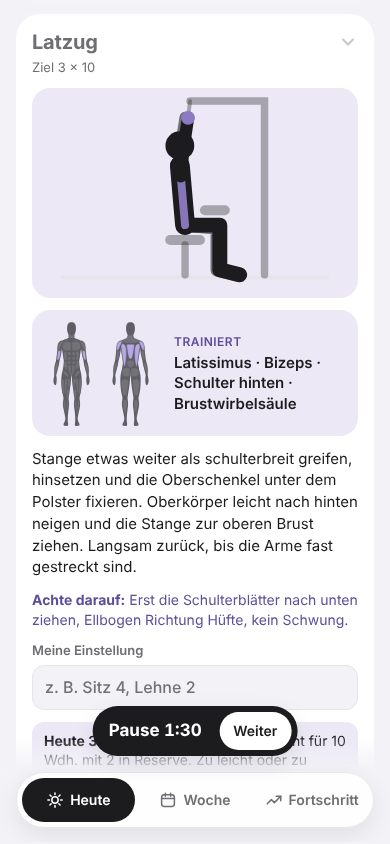
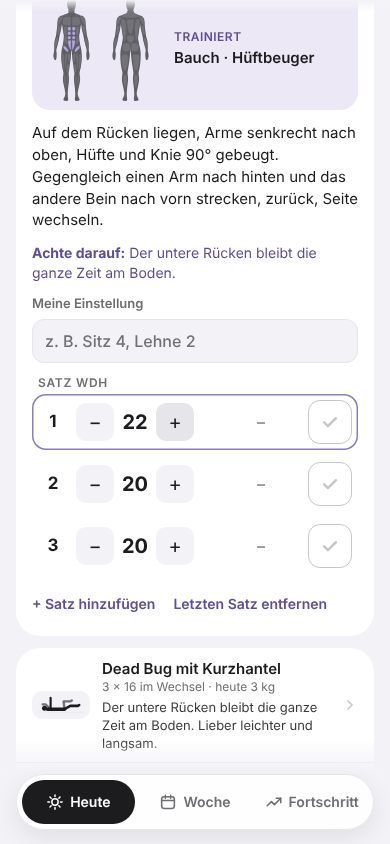
Dead Bug: Gesamtzahl pro Satz statt links/rechts abhaken
Übungen, bei denen die Seiten im Wechsel kommen (Bibliothek: alt),
werden aus „3×10 je Seite“ als 3×20 geführt: ein Haken pro Satz,
Stepper in Zweierschritten, Steigerung um eine Wdh. je Seite.
Gewichtsschätzung rechnet weiter mit Wiederholungen je Seite.

Claude-Session: https://claude.ai/code/session_0189vNV4WxQq4MYos3gjU1Qb

diff --git a/app.js b/app.js
@@ -517,7 +517,7 @@
         const okS = s2.filter(x => x.ok), allOk = s2.length && s2.every(x => x.ok);
         if (allOk) doneN++;
         setsOk += okS.length; setsAll += s2.length;
-        let sub = `${t2.sets} × ${t2.reps}${k2 === 'time' ? ' s' : ''}${twoSided(e, lb, t2, k2) || t2.side ? ' je Seite' : ''}`;
+        let sub = `${t2.sets} × ${t2.reps}${k2 === 'time' ? ' s' : ''}${twoSided(e, lb, t2, k2) || t2.side ? ' je Seite' : t2.alt ? ' im Wechsel' : ''}`;
         if (p.done && okS.length) { const kgs = okS.map(x => x.kg).filter(x => x != null); sub = `${okS.length} Sätze${k2 === 'w' && kgs.length ? ' · ' + fmtKg(Math.max(...kgs)) : ''}`; }
         else if (!p.done) { const sg = suggest(lb, e, t2, lastFor(M, e.name, p.id)); if (k2 === 'w' && sg.kg != null) sub += ' · ' + fmtKg(sg.kg); }
         return { name: e.name, sub, on: !!allOk || !!p.done, part: !allOk && okS.length > 0, lib: lb };
@@ -574,6 +574,8 @@
   }
   function target(p, ex, lib) {
     const t = { sets: ex.sets || 1, reps: ex.reps || 10, secs: ex.secs, side: ex.side };
+    /* Seiten im Wechsel (z. B. Dead Bug): „3×10 je Seite“ wird als 3×20 gezählt, ein Haken pro Satz */
+    if (t.side && lib && lib.alt && !t.secs) { t.reps *= 2; t.side = false; t.alt = true; }
     const h = (p.note || '').match(/Schwerer:\s*(\d+)×(\d+)/);
     if (h && lib && lib.t === 'w' && !lib.noHeavy) { t.sets = +h[1]; t.reps = +h[2]; t.heavy = true; }
     return t;
@@ -622,30 +624,31 @@
     }
     if (k === 'bw') {
       if (!hist) return { r: tg.reps, why: '' };
-      const cap = Math.max((lib && lib.cap) || 15, tg.reps);
+      const st = tg.alt ? 2 : 1, cap = Math.max(((lib && lib.cap) || 15) * st, tg.reps); /* im Wechsel: Gesamtzahl, eine Wdh. mehr je Seite = 2 */
       const best = Math.max(...hist.sets.map(s => s.reps || 0));
       const rr = hist.sets.map(s => s.rir).filter(x => x != null), ar = rr.length ? mean(rr) : null;
       if (!hist.sets.every(s => (s.reps || 0) >= tg.reps)) return { r: tg.reps, why: '' };
       if (best >= cap) return { r: cap, why: capMsg(cap, ' Wdh.'), cap: true };
-      if (ar != null && ar >= 4) { const r = Math.min(cap, Math.max(tg.reps, best + 2)); return { r, why: `Letztes Mal noch ${fmtR(ar)} in Reserve: ${r - best > 1 ? 'zwei Wiederholungen' : 'eine Wiederholung'} mehr pro Satz.` }; }
+      if (ar != null && ar >= 4) { const r = Math.min(cap, Math.max(tg.reps, best + 2 * st)); return { r, why: `Letztes Mal noch ${fmtR(ar)} in Reserve: ${(r - best) / st > 1 ? 'zwei Wiederholungen' : 'eine Wiederholung'} mehr ${tg.alt ? 'je Seite' : 'pro Satz'}.` }; }
       if (ar != null && ar < 1.5) return { r: Math.max(tg.reps, best), why: 'Letztes Mal fast am Limit: Wiederholungen halten.' };
-      return { r: Math.min(cap, Math.max(tg.reps, best + 1)), why: 'Letztes Mal alles geschafft: eine Wiederholung mehr pro Satz.' };
+      return { r: Math.min(cap, Math.max(tg.reps, best + st)), why: `Letztes Mal alles geschafft: eine Wiederholung mehr ${tg.alt ? 'je Seite' : 'pro Satz'}.` };
     }
-    if (!hist) { const kg = startKg(lib, tg.reps); return { r: tg.reps, kg, first: true, why: kg != null ? `Geschätztes Startgewicht für ${tg.reps} Wdh. mit ${rir()} in Reserve. Zu leicht oder zu schwer? Einfach anpassen, ab dann rechnet die App mit deinem Wert.` : `Gewicht wählen, bei dem noch ${rir()} Wiederholungen gehen würden.` }; }
+    const ps = r => tg.alt ? r / 2 : r; /* Gewicht schätzen nach Wiederholungen je Seite */
+    if (!hist) { const kg = startKg(lib, ps(tg.reps)); return { r: tg.reps, kg, first: true, why: kg != null ? `Geschätztes Startgewicht für ${tg.reps} Wdh. mit ${rir()} in Reserve. Zu leicht oder zu schwer? Einfach anpassen, ab dann rechnet die App mit deinem Wert.` : `Gewicht wählen, bei dem noch ${rir()} Wiederholungen gehen würden.` }; }
     const kgs = hist.sets.map(s => s.kg).filter(x => x != null);
     const lastKg = kgs.length ? Math.max(...kgs) : null;
     if (lastKg == null) return { r: tg.reps, kg: null, why: '' };
     const lt = (hist.target.match(/×(\d+)/) || [])[1];
     if (lt && +lt !== tg.reps) {
       const avg = mean(hist.sets.map(s => s.reps || 0));
-      return { r: tg.reps, kg: roundKg(lastKg * e1(avg, rir()) / e1(tg.reps, rir())), why: `Umgerechnet von ${hist.target} mit ${fmtKg(lastKg)} auf ${tg.reps} Wiederholungen mit ${rir()} in Reserve.` };
+      return { r: tg.reps, kg: roundKg(lastKg * e1(ps(avg), rir()) / e1(ps(tg.reps), rir())), why: `Umgerechnet von ${hist.target} mit ${fmtKg(lastKg)} auf ${tg.reps} Wiederholungen mit ${rir()} in Reserve.` };
     }
     const need = +(hist.target.match(/^(\d+)/) || [])[1] || 1;
     /* Reserve gemeldet: daraus die Leistung schätzen und das Gewicht anpassen */
     const rs = hist.sets.filter(s => s.rir != null && s.kg != null && s.reps);
     if (rs.length) {
       const ar = mean(rs.map(s => s.rir)), allReps = hist.sets.length >= need && hist.sets.every(s => (s.reps || 0) >= tg.reps);
-      const est = Math.min(...rs.map(s => s.kg * e1(s.reps, s.rir))), fit = stepKg(est / e1(tg.reps, rir()), lib.inc);
+      const est = Math.min(...rs.map(s => s.kg * e1(ps(s.reps), s.rir))), fit = stepKg(est / e1(ps(tg.reps), rir()), lib.inc);
       if (allReps && ar >= 4) { const lo = lastKg + lib.inc, hi = Math.max(lo, stepKg(lastKg * 1.15, lib.inc)), kg = Math.min(hi, Math.max(lo, fit)); /* höchstens ca. 15 % Sprung */ return { r: tg.reps, kg, why: `Letztes Mal noch ${fmtR(ar)} Wdh. in Reserve, das war zu leicht: ${fmtKg(kg)}.` }; }
       if (allReps && ar >= 2) return { r: tg.reps, kg: roundKg(lastKg + lib.inc), why: `Letztes Mal alle Sätze mit ${fmtR(ar)} in Reserve, also ${String(lib.inc).replace('.', ',')} kg mehr.` };
       if (ar < 1 || hist.sets.some(s => (s.reps || 0) < tg.reps - 2)) { const kg = Math.min(lastKg, Math.max(lib.inc, fit)); return { r: tg.reps, kg, why: kg < lastKg ? `Letztes Mal am Limit: etwas leichter, damit wieder ${rir()} Wdh. Reserve bleiben.` : 'Letztes Mal am Limit: Gewicht halten.' }; }
@@ -716,7 +719,7 @@
       const allOk = s2.length && s2.every(x => x.ok);
       const sg2 = suggest(lb, e, t2, lastFor(M, e.name, p.id));
       const today2 = k2 === 'w' && sg2.kg != null ? ' · heute ' + fmtKg(sg2.kg) : k2 === 'time' && sg2.s ? ' · heute ' + sg2.s + ' s' : '';
-      return `<button class="exrow${allOk ? ' done' : ''}" data-ex="${p.id}|${i}"><span class="thumb">${lb ? U.svg(lb, { t: 0.75 }) : ''}</span><span class="tx"><b>${esc(e.name)}</b><small>${t2.sets} × ${t2.reps}${k2 === 'time' ? ' s' : ''}${twoSided(e, lb, t2, k2) || t2.side ? ' je Seite' : ''}${today2}</small>${lb ? `<span>${esc(lb.cue)}</span>` : ''}</span>${allOk ? `<span class="pill">✓ ${s2.length}</span>` : CHEV_R}</button>`;
+      return `<button class="exrow${allOk ? ' done' : ''}" data-ex="${p.id}|${i}"><span class="thumb">${lb ? U.svg(lb, { t: 0.75 }) : ''}</span><span class="tx"><b>${esc(e.name)}</b><small>${t2.sets} × ${t2.reps}${k2 === 'time' ? ' s' : ''}${twoSided(e, lb, t2, k2) || t2.side ? ' je Seite' : t2.alt ? ' im Wechsel' : ''}${today2}</small>${lb ? `<span>${esc(lb.cue)}</span>` : ''}</span>${allOk ? `<span class="pill">✓ ${s2.length}</span>` : CHEV_R}</button>`;
     };
     const tail = () => {
       let t = '';
@@ -740,7 +743,7 @@
     const hist = lastFor(M, ex.name, p.id), sg = suggest(lib, ex, tg, hist);
     const sets = d.ex[act] || [];
     const two = twoSided(ex, lib, tg, k);
-    const goal = `${tg.sets} × ${tg.reps}${k === 'time' ? ' s' : ''}${tg.side || two ? ' je Seite' : ''}`;
+    const goal = `${tg.sets} × ${tg.reps}${k === 'time' ? ' s' : ''}${tg.side || two ? ' je Seite' : tg.alt ? ` im Wechsel (${tg.reps / 2} je Seite)` : ''}`;
     const firstOpen = sets.findIndex(s => !s.ok);
     let h = backBar(p, `Übung ${act + 1} von ${exs.length}`) + (done ? '' : warmupHTML(p, exs, d));
     if (act > 0) h += '<div class="exlist">' + exs.slice(0, act).map(exRow).join('') + '</div>';
@@ -754,7 +757,7 @@
     if (!done && k === 'w' && firstOpen === 0) h += rampHTML(exs, act, lib, sets[0].kg);
     h += `<div class="sets" role="group" aria-label="Sätze ${esc(ex.name)}"><div class="set head${two ? ' two' : ''}"><span>SATZ</span><span>${k === 'time' ? 'SEKUNDEN' : 'WDH'}</span><span>${k === 'w' ? 'KG' : ''}</span><span>${two ? 'L · R' : ''}</span></div>`;
     sets.forEach((s, j) => {
-      const f = k === 'time' ? 's' : 'r', v = (k === 'time' ? s.s : s.r) || 0, step = k === 'time' ? 5 : 1, key = `${p.id}|${act}|${j}`;
+      const f = k === 'time' ? 's' : 'r', v = (k === 'time' ? s.s : s.r) || 0, step = k === 'time' ? 5 : tg.alt ? 2 : 1, key = `${p.id}|${act}|${j}`;
       h += `<div class="set${two ? ' two' : ''}${s.ok ? ' ok' : ''}${j === firstOpen && !done ? ' cur' : ''}"><span class="n">${j + 1}</span>
         <span class="stp"><button data-step="${key}|${f}|-${step}" aria-label="weniger" ${done ? 'disabled' : ''}>−</button><b>${v}</b><button data-step="${key}|${f}|${step}" aria-label="mehr" ${done ? 'disabled' : ''}>+</button></span>
         ${k === 'w' ? `<input type="number" inputmode="decimal" step="0.5" min="0" id="kg-${esc(p.id)}-${act}-${j}" data-kg="${key}" value="${s.kg == null ? '' : s.kg}" placeholder="kg" aria-label="Gewicht Satz ${j + 1}" ${done ? 'disabled' : ''}>` : '<span class="dash">–</span>'}

diff --git a/uebungen.js b/uebungen.js
@@ -172,7 +172,7 @@
       cue: 'Ellbogen etwa 45° vom Körper, Bauch fest.',
       A: P('20 44,27 48,66 57,85 61,102 66,104 72,85 61,101 66,103 72,33 61,33 72,35 61,35 72'),
       B: P('20 58,27 62,66 64,85 66,102 67,104 72,85 66,101 67,103 72,43 65,33 72,45 65,35 72') },
-    { re: /^dead bug/i, m: ['bauch','hueftbeuger'], t: 'bw', inc: 1, cap: 12, next: 'Dead Bug mit einer leichten Kurzhantel (2–4 kg) in den gestreckten Händen, wieder ab 3×8 je Seite', up: { name: 'Dead Bug mit Kurzhantel', reps: 8 },
+    { re: /^dead bug/i, m: ['bauch','hueftbeuger'], t: 'bw', alt: true, inc: 1, cap: 12, next: 'Dead Bug mit einer leichten Kurzhantel (2–4 kg) in den gestreckten Händen, wieder ab 3×8 je Seite', up: { name: 'Dead Bug mit Kurzhantel', reps: 8 },
       how: 'Auf dem Rücken liegen, Arme senkrecht nach oben, Hüfte und Knie 90° gebeugt. Gegengleich einen Arm nach hinten und das andere Bein nach vorn strecken, zurück, Seite wechseln.',
       cue: 'Der untere Rücken bleibt die ganze Zeit am Boden.',
       A: P('22 64,29 66,68 66,68 48,84 48,87 46,66 48,82 48,85 46,36 52,36 40,34 52,34 40'),
@@ -281,7 +281,7 @@
     [/^liegestütz/i, { re: /^liegestütz mit (den )?füßen|^liegestütz.*erhöht/i, t: 'bw', inc: 1, cap: 15, next: 'Liegestütz mit Gewichtsweste oder einer Hantelscheibe auf dem Rücken',
       how: 'Füße auf eine Bank oder Stufe, Hände etwas weiter als schulterbreit am Boden. Brust kontrolliert bis knapp über den Boden senken und wieder hochdrücken.',
       cue: 'Körper bleibt gerade, die Hüfte hängt nicht durch. Ellbogen etwa 45° vom Körper.' }],
-    [/^dead bug/i, { re: /^dead bug mit/i, t: 'w', inc: 1, start: 3, noHeavy: true, per: 'in den Händen',
+    [/^dead bug/i, { re: /^dead bug mit/i, t: 'w', alt: true, inc: 1, start: 3, noHeavy: true, per: 'in den Händen',
       how: 'Wie der normale Dead Bug, die Arme halten dabei eine leichte Kurzhantel senkrecht über der Brust. Gegengleich Arm mit Hantel nach hinten und das andere Bein nach vorn strecken, zurück, Seite wechseln.',
       cue: 'Der untere Rücken bleibt die ganze Zeit am Boden. Lieber leichter und langsam.' }],
     [/^rückenstrecker/i, { re: /^rückenstrecker mit/i, t: 'w', inc: 2.5, start: 5, noHeavy: true, per: 'vor der Brust',

diff --git a/sw.js b/sw.js
@@ -2,7 +2,7 @@
    Eine verspätete Antwort aus dem Netz landet trotzdem im Zwischenspeicher. Daten laufen nie über den Cache.
    Abrufe tragen ?v=<Version>: GitHub Pages hält Dateien sonst bis zu 10 min im CDN, und eine neue Version
    bekäme noch die alte index.html. Gespeichert wird unter der Adresse ohne Zusatz. */
-const CACHE = 'tri-v164';
+const CACHE = 'tri-v165';
 const FILES = ['./', './index.html', './app.js', './uebungen.js', './morphdom.min.js', './manifest.webmanifest', './icons/icon-180.png', './icons/icon-192.png'];
 const WAIT = 3000;
 const bust = u => { const x = new URL(u, location.href); x.searchParams.set('v', CACHE); return x.href; };

diff --git a/index.html b/index.html
@@ -2,7 +2,7 @@
 <html lang="de">
 <head>
 <meta charset="utf-8">
-<meta name="app-version" content="tri-v164">
+<meta name="app-version" content="tri-v165">
 <meta name="viewport" content="width=device-width, initial-scale=1, viewport-fit=cover">
 <title>Triathlon</title>
 <script>
